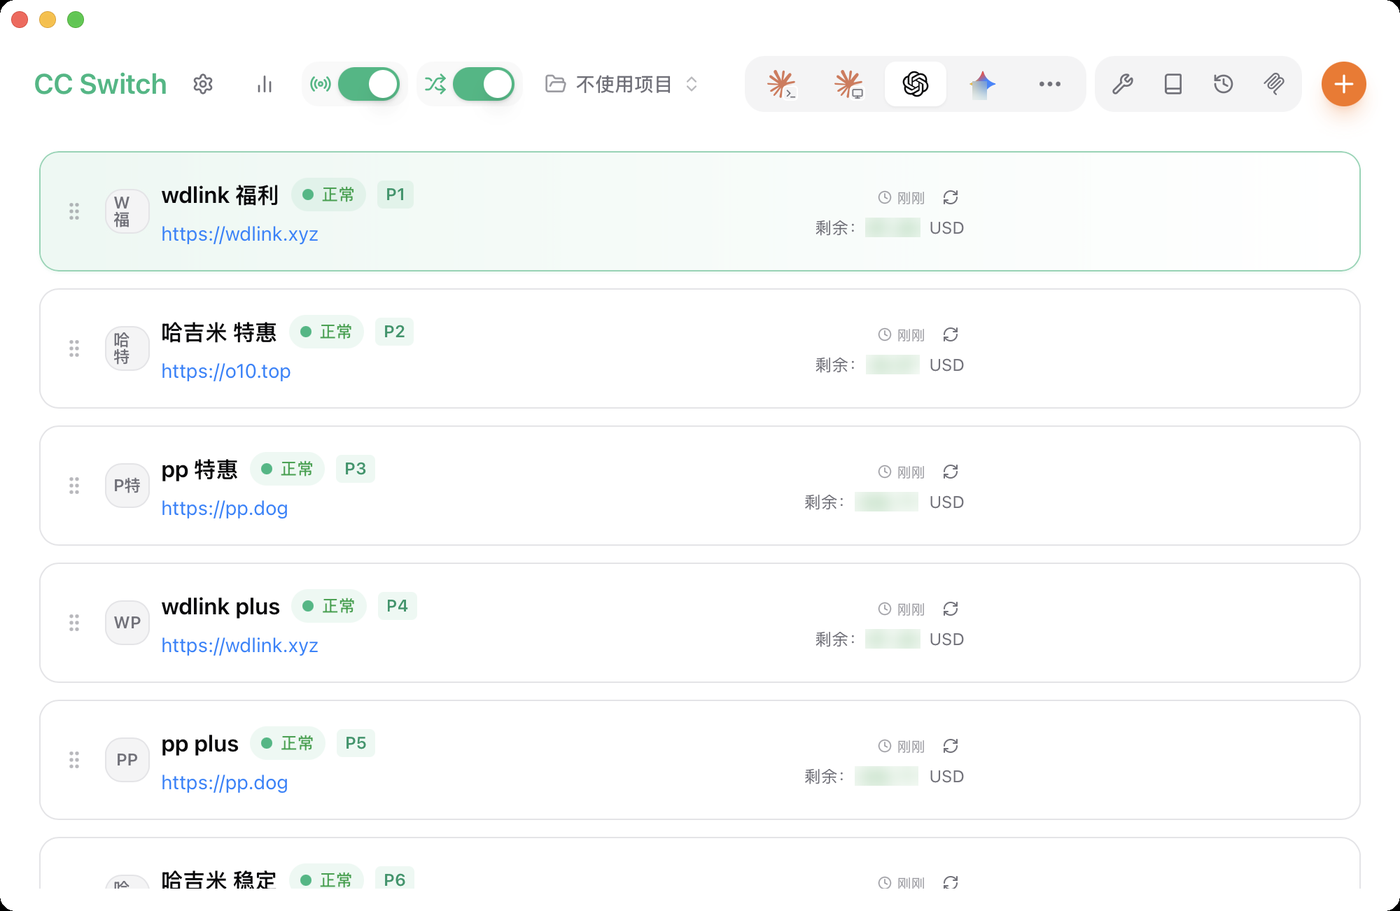
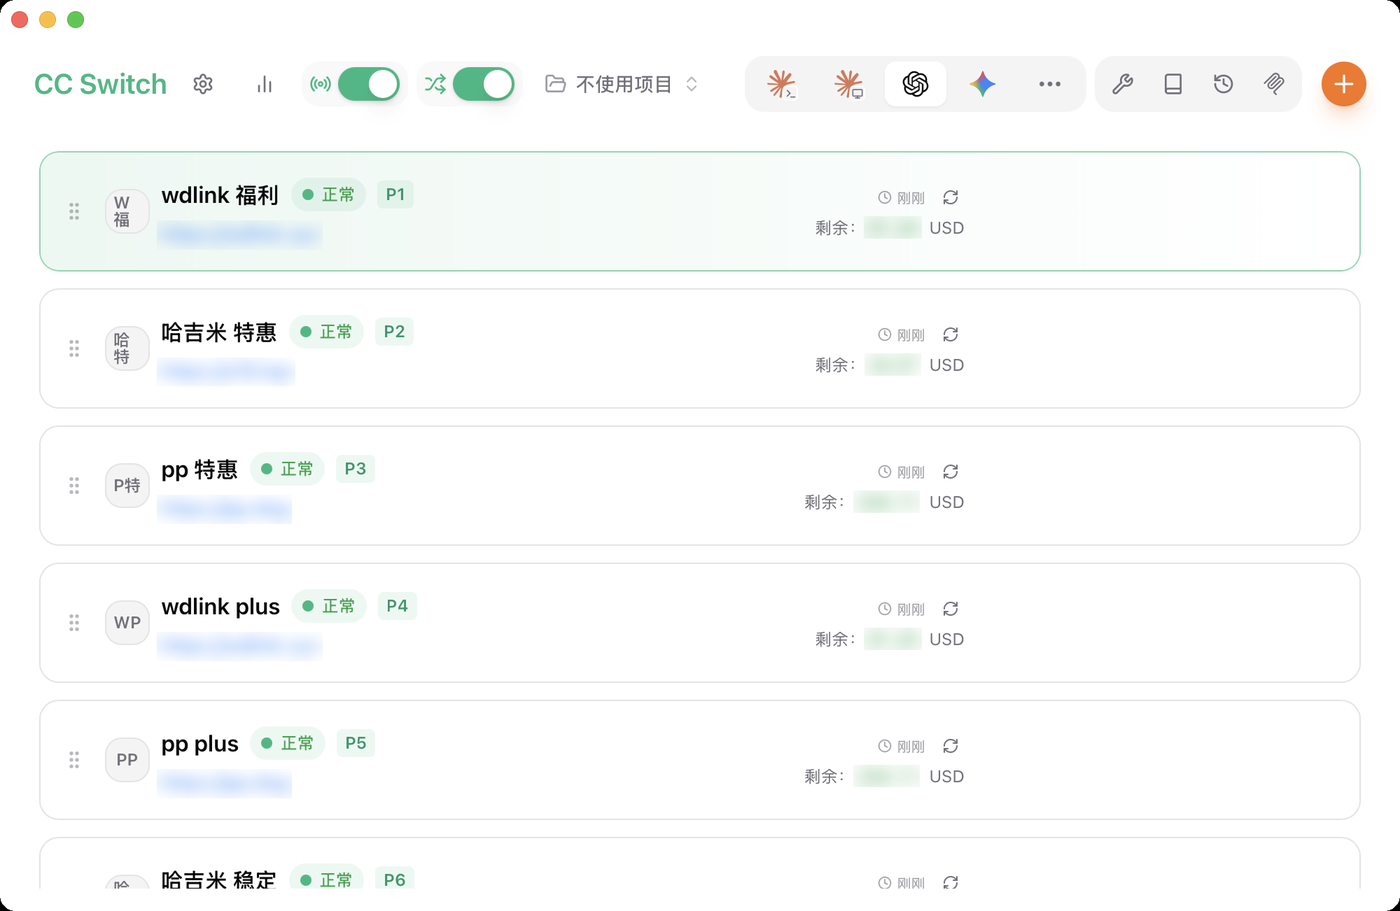
README 增加"统计与证据"：请求统计、归属证据（真实输出截图）+ reconcile.py 对账工具
- 新增 reconcile.py：成本口径对账（桥估算 vs CC Switch 表 vs 余额实际减少），
  余额采样写入 balance-history.jsonl，首次用 bridge-state.json 的余额做基线；
  --sample 可挂 launchd（本机已装每 15 分钟）。
- docs/images/evidence-stats.png：request_stats.py 的真实输出（52% 入口即最优 /
  45% 主动切换 / 3% 失败重连、按中转的服务与花费、缓存命中 94%、总计 $7.21）。
- docs/images/evidence-attrib.png：relay_attrib.py --status + 变更记录 + CC Switch 库分布，
  2207 行改写；其中 OpenAI Official 47 行正是那次"流量绕过桥"的痕迹。
- docs/images/cc-switch-providers.png：按要求把供应商网址也打码（余额此前已打码）。
- 截图方式：screencapture -l 按窗口截 CC Switch；文本输出用 Chrome 渲染后自动裁边，
  截图前发 Esc 关掉 Chrome 翻译气泡。

diff --git a/reconcile.py b/reconcile.py
@@ -1,0 +1,263 @@
+#!/usr/bin/env python3
+# -*- coding: utf-8 -*-
+"""成本口径对账：桥的估算 vs CC Switch 自己的表 vs **余额实际减少**。
+
+为什么要它：桥的成本是按**各家中转自己报的账单单价**算的（`/v1/usage` 的 actual_cost），
+CC Switch 的表用的是共享定价表，两者经常差一个数量级；而两者都可能有偏差，
+**唯一的地面真相是中转余额的减少**。本工具：
+
+    python3 reconcile.py            # 采样一次余额 + 输出对账（窗口 = 两次采样之间）
+    python3 reconcile.py --hours 6  # 指定窗口（余额部分用窗口两端的采样）
+    python3 reconcile.py --sample   # 只采样，不出报告（给 launchd 用）
+    python3 reconcile.py --json
+
+余额采样存在 `balance-history.jsonl`；第一次运行时如果账本为空，会先用
+`bridge-state.json` 里最近一次价格刷新带回来的余额做基线（桥每 10 分钟刷一次价格，
+顺带读余额），所以第一次就有窗口可比。
+"""
+
+import argparse
+import json
+import os
+import sqlite3
+import sys
+import time
+import urllib.request
+from urllib.parse import urlsplit
+
+BASE = os.path.dirname(os.path.abspath(__file__))
+ROUTES = os.environ.get("BRIDGE_ROUTES", os.path.join(BASE, "routes.json"))
+REQUESTS = os.environ.get("BRIDGE_REQUEST_LOG", os.path.join(BASE, "bridge-requests.jsonl"))
+STATE = os.environ.get("BRIDGE_STATE", os.path.join(BASE, "bridge-state.json"))
+LEDGER = os.environ.get("BRIDGE_BALANCE_LEDGER", os.path.join(BASE, "balance-history.jsonl"))
+DB = os.environ.get("BRIDGE_DB", os.path.expanduser("~/.cc-switch/cc-switch.db"))
+WEIGHTS = {"input": 1.0, "output": 4.0, "cache_read": 0.1, "cache_creation": 1.25}
+
+
+def load_routes():
+    with open(ROUTES) as fh:
+        return json.load(fh).get("routes") or {}
+
+
+def fetch_balances(routes):
+    """-> {relay_name: balance}; relays that do not report one are skipped."""
+    out = {}
+    for pid, route in routes.items():
+        if route.get("auth_type") == "oauth":
+            continue
+        url = route["upstream"].rstrip("/") + (route.get("prefix") or "") + "/usage"
+        try:
+            req = urllib.request.Request(
+                url, headers={"Authorization": "Bearer " + (route.get("auth") or ""),
+                              "Accept": "application/json", "User-Agent": "curl/8.7.1"})
+            with urllib.request.urlopen(req, timeout=15) as fh:
+                data = json.load(fh)
+        except Exception:
+            continue
+        value = data.get("remaining")
+        if not isinstance(value, (int, float)) or isinstance(value, bool):
+            value = data.get("balance")
+        if not isinstance(value, (int, float)) or isinstance(value, bool):
+            continue
+        if float(value) > 1e6:            # prepaid/unlimited relays report nonsense
+            continue
+        out[route.get("name") or pid] = (float(value), urlsplit(route["upstream"]).netloc)
+    return out
+
+
+def read_ledger():
+    rows = []
+    if os.path.exists(LEDGER):
+        for line in open(LEDGER, errors="replace"):
+            line = line.strip()
+            if not line:
+                continue
+            try:
+                rows.append(json.loads(line))
+            except Exception:
+                pass
+    return rows
+
+
+def append_sample(balances, ts=None, source="fetch"):
+    ts = ts or time.time()
+    entry = {"ts": round(ts, 3), "source": source,
+             "balances": {name: value for name, (value, _host) in balances.items()}}
+    with open(LEDGER, "a") as fh:
+        fh.write(json.dumps(entry, ensure_ascii=False) + "\n")
+    return entry
+
+
+def seed_from_state():
+    """First run: use the balances the bridge already fetched with its price refresh."""
+    try:
+        state = json.load(open(STATE))
+        prices = state.get("prices") or {}
+        stats = state.get("stats") or {}
+        seat = {}
+        ts = 0.0
+        for pid, bucket in stats.items():
+            value = bucket.get("balance")
+            if value is None:
+                continue
+            name = None
+            ts = max(ts, (prices.get(pid) or {}).get("ts") or 0)
+            seat[name] = value
+        # names are not in the state file - map by order of routes with balances
+        if not seat or not ts:
+            return None
+        return {"ts": round(ts, 3), "source": "bridge-state",
+                "balances": "?"}                       # placeholder, fixed below
+    except Exception:
+        return None
+
+
+def weighted_million(tokens):
+    return sum((tokens.get(k) or 0) * w for k, w in WEIGHTS.items()) / 1e6
+
+
+def bridge_window(start, end):
+    cost = 0.0
+    wm = 0.0
+    rows = 0
+    per_relay = {}
+    if not os.path.exists(REQUESTS):
+        return {"cost": 0.0, "wm": 0.0, "rows": 0, "per_relay": {}}
+    for line in open(REQUESTS, errors="replace"):
+        line = line.strip()
+        if not line:
+            continue
+        try:
+            row = json.loads(line)
+        except Exception:
+            continue
+        epoch = row.get("epoch") or 0
+        if not (start <= epoch <= end) or row.get("result") not in ("ok", "pass"):
+            continue
+        tokens = row.get("tokens") or {}
+        if not tokens:
+            continue
+        rows += 1
+        cost += row.get("est_cost_usd") or 0.0
+        w = weighted_million(tokens)
+        wm += w
+        ent = per_relay.setdefault(row.get("relay") or "?", {"n": 0, "wm": 0.0, "cost": 0.0})
+        ent["n"] += 1
+        ent["wm"] += w
+        ent["cost"] += row.get("est_cost_usd") or 0.0
+    return {"cost": cost, "wm": wm, "rows": rows, "per_relay": per_relay}
+
+
+def ccswitch_window(start, end):
+    try:
+        conn = sqlite3.connect("file:%s?mode=ro" % DB, uri=True, timeout=10)
+    except Exception as exc:
+        return {"cost": 0.0, "rows": 0, "error": str(exc)}
+    try:
+        row = conn.execute(
+            "SELECT COUNT(*), SUM(CAST(total_cost_usd AS REAL)) FROM proxy_request_logs "
+            "WHERE created_at >= ? AND created_at <= ? AND data_source='proxy'",
+            (int(start), int(end))).fetchone()
+        return {"cost": row[1] or 0.0, "rows": row[0] or 0}
+    finally:
+        conn.close()
+
+
+def account_delta(samples, start, end):
+    """Per account (= upstream host) balance drop between the window's samples."""
+    first, last = samples[0], samples[-1]
+    out = {}
+    for name, value in last["balances"].items():
+        before = first["balances"].get(name)
+        if before is None:
+            continue
+        out[name] = before - value
+    return out
+
+
+def main():
+    ap = argparse.ArgumentParser()
+    ap.add_argument("--hours", type=float, default=0, help="窗口小时数；0=用两次余额采样之间")
+    ap.add_argument("--sample", action="store_true", help="只采样余额")
+    ap.add_argument("--json", action="store_true")
+    args = ap.parse_args()
+
+    routes = load_routes()
+    balances = fetch_balances(routes)
+    now = time.time()
+
+    if not os.path.exists(LEDGER) or not read_ledger():
+        state = json.load(open(STATE)) if os.path.exists(STATE) else {}
+        seeded = 0
+        with open(LEDGER, "a") as fh:
+            for pid, bucket in (state.get("stats") or {}).items():
+                value = bucket.get("balance")
+                route = routes.get(pid) or {}
+                ts = ((state.get("prices") or {}).get(pid) or {}).get("ts")
+                if value is None or not ts or not route.get("name"):
+                    continue
+                fh.write(json.dumps({"ts": round(ts, 3), "source": "bridge-state",
+                                     "balances": {route["name"]: value}},
+                                    ensure_ascii=False) + "\n")
+                seeded += 1
+        if seeded:
+            print("（首次运行：用桥最近一次价格刷新带回的余额做了基线，%d 条）\n" % seeded)
+
+    append_sample(balances, now)
+    if args.sample:
+        print("已采样 %d 家中转余额 -> %s" % (len(balances), os.path.basename(LEDGER)))
+        return 0
+
+    samples = sorted(read_ledger(), key=lambda r: r["ts"])
+    if args.hours > 0:
+        start, end = now - args.hours * 3600, now
+    else:
+        start, end = samples[0]["ts"], samples[-1]["ts"]
+        # merge the first/last few state samples so the start has all relays
+        for row in samples:
+            if abs(row["ts"] - start) < 900:
+                start = min(start, row["ts"])
+    window_first = min(samples, key=lambda r: abs(r["ts"] - start))
+    window_last = samples[-1]
+
+    bridge = bridge_window(start, end)
+    ccsw = ccswitch_window(start, end)
+    delta = account_delta([window_first, window_last], start, end)
+    real = sum(v for v in delta.values() if v > 0)
+
+    if args.json:
+        print(json.dumps({"start": start, "end": end, "bridge": bridge, "ccswitch": ccsw,
+                          "balance_delta": delta, "real": real}, ensure_ascii=False, indent=2))
+        return 0
+
+    span = (end - start) / 60.0
+    print("窗口        : %s → %s（%.1f 分钟）"
+          % (time.strftime("%H:%M:%S", time.localtime(start)),
+             time.strftime("%H:%M:%S", time.localtime(end)), span))
+    print("桥估算      : $%.4f    （%d 个请求有 usage，%.3f 加权M，平均 $%.4f/加权M）"
+          % (bridge["cost"], bridge["rows"], bridge["wm"],
+             (bridge["cost"] / bridge["wm"]) if bridge["wm"] else 0))
+    print("CC Switch表 : $%.4f    （%d 行 proxy 日志，按共享定价表算）"
+          % (ccsw["cost"], ccsw["rows"]))
+    if bridge["cost"]:
+        print("两者倍数    : %.2fx" % (ccsw["cost"] / bridge["cost"]))
+    print("余额实际减少 : $%.4f    （%s → %s，中转自己扣的钱）"
+          % (real, time.strftime("%H:%M:%S", time.localtime(window_first["ts"])),
+             time.strftime("%H:%M:%S", time.localtime(window_last["ts"]))))
+    for name, value in sorted(delta.items(), key=lambda kv: -kv[1]):
+        print("    %-16s $%+.4f" % (name, -value))
+    if bridge["cost"]:
+        print("桥 / 余额    : %.2fx   （越接近 1.00，说明桥的单价越准）"
+              % (real / bridge["cost"]))
+    print()
+    print("按中转（桥的估算）：")
+    print("  %-16s %6s %10s %12s %12s" % ("中转", "请求", "加权M", "估算$", "平均$/加权M"))
+    for name, ent in sorted(bridge["per_relay"].items(), key=lambda kv: -kv[1]["cost"]):
+        print("  %-16s %6d %10.3f %12.5f %12.4f"
+              % (name, ent["n"], ent["wm"], ent["cost"],
+                 (ent["cost"] / ent["wm"]) if ent["wm"] else 0))
+    return 0
+
+
+if __name__ == "__main__":
+    sys.exit(main())
